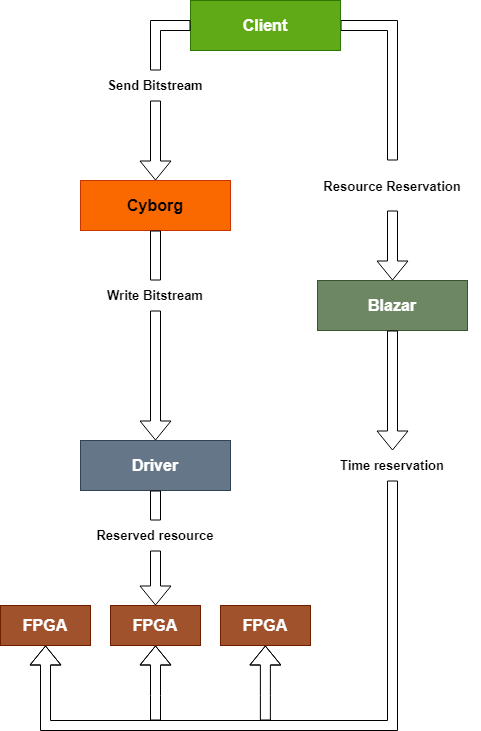
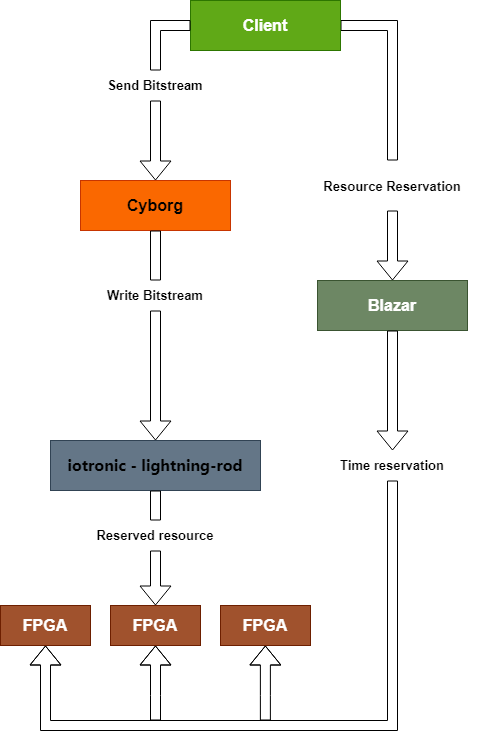
Versione 19:29 11/07/22

Changed region(s): [[0.0936, 0.6019, 0.5613, 0.6922]]

diff --git a/Background.tex b/Background.tex
@@ -97,12 +97,33 @@ Una volta terminati questi passaggi avremo a disposizione l'implementazione del 
 Questo tipo di sviluppo è il migliore nel nostro caso poichè non stiamo effettuando un High Level Synthesis (HLS), in quel caso esistono dei tools appositi.
 \subsection{Sviluppo tramite Vivado}
 Lo sviluppo tramite vivado è al quanto semplificato, poichè godendo di un interfaccia grafica permette l'implementazione di sistemi complessi anche non avendo alcuna conoscenza di VHDL o Verilog, si rimanda però all'appendice \ref{app:a} per maggiori chiarimenti su installazione ed inizio del primo progetto.
-\section{Vitis}
+\section{Tecnologie implementative}
+\subsection{Vitis}
 Vitis è il Software Development Kit (SDK) fornito da Xilnix nella sua suite di prodotti, la sua installazione è contestuale a quella trattata in \ref{app:a}, tramite esso è possibile generare codice che in grado di esser eseguito sulla scheda, questo è possibile tramite le informazioni prese su vivado.\\
 Sono presenti due possibilità di programmazione, standalone e linux, la prima applicazione permetterà l'esecuzione di codice C in modalità Bare-Metal\footnote{Livello di programmazione senza astrazioni, come il sistema operativo}, in questo modo potremmo usare delle librerie della Xilinix che contengono delle funzioni standard al fine di effettuare la comunicazione tra PS e PL. Successivamente tratteremo anche la comunicazione tra PS e PL su sistema linux. Questo tipo di programmazione è discussa approfonditamente \ref{Standalone}
-\section{Petalinux}
+\subsection{Petalinux}
 È un tool della Xilinix che necessario qualora si volesse usare una distro Linux embedded su di una FPGA SoC xilinix, la sua installazione è trattata in \ref{petalinuxinst}. Petalinux offre una grossa flessibilità per la costruzione e compilazione di un kernel Linux, la sua flessibilità ci permette di escludere o includere moduli pre-esistenti oppure crearne uno noi secondo le nostre esigenze. Si basa fortemente sull'architettura e sull'esportazione che avviene da vivado al fine di costruire il device tree e tutti gli strumenti necessari al kernel.\\
 Al fine di usufruire di petalinux vanno impostati i Jumpers della scheda MIO2-6 in configurazione  "00110", in questo modo potremmo usare il kernel che abbiamo creato e compilato\footnote{Che vedremo successivamente}, tramite la scheda SD che dovrà rispettare delle specifiche espresse in \ref{sd}.
-\section{Bootgen}
-Bootgen è un tool appartenente alla suite di sviluppo della Xilinix, il suo scopo è quello di generare i file binari e tutti gli artefatti necessari. La sua installazione verrà discussa in \ref{installazioneBoot}
-Sfortunatamente questo tool è attualemente disponibile solo per architettura x86, quindi come tutti i tool presentati precedentemente non sarà possibile installarli sulla piattaforma da noi prescelta.\\
+\subsection{Bootgen}
+\textit{Bootgen} è un tool appartenente alla suite di sviluppo della Xilinix, il suo scopo è quello di generare i file binari e tutti gli artefatti necessari. La sua installazione verrà discussa in \ref{installazioneBoot}
+Sfortunatamente questo tool è attualemente disponibile solo per architettura x86, quindi come tutti i tool presentati precedentemente non sarà possibile installarli sulla piattaforma da noi prescelta.\clearpage
+\subsection{OpenStack}
+OpenStack è un piattaforma cloud open-source\cite{OpenStack2} che permette la gestione di risorse in cloud, queste risorse possono variare da macchine virtuali, blocchi d'indirizzamento, spazio d'archiviazione ed acceleratori. Tutte le risorse fisiche vengono aggregate in un unico grande pool ed alloca le risorse virtuali permettendo cosi la richiesta tramite le API da parte dell'utente finale, OpenStack non gestisce la virtualizzazione, ma sfrutta le tecnologie di virtualizzazioni preesistenti eseguendo un funzionamento assimilabile a quello di un raccoglitore.
+\begin{figure}[h]
+\centering
+\includegraphics[width=1\textwidth]{images/Openstack.jpg}
+\caption{Diagramma rappresentativo funzionamento OpenStack\cite{OpenStack2}}
+\end{figure}\\
+\subsection{Nova}
+Nova fa parte del progetto open-source OpenStack, il suo scopo è la gestione delle Virtual Machine (VM), esso permette, in simbiosi con Cyborg, di definire gli acceleratori e le FPGA come VM, per maggiori approfondimenti si rimanda a \cite{Nova}.
+\subsection{Cyborg}
+È un sottosistema di OpenStack, il quale si occupa della gestione del ciclo di vita degli acceleratori, il tutto viene effettuato tramite un interfaccia \textit{REpresentational State Transfer} (REST), tale approccio permette l'aggiunta e la rimozione di nodi ed informazioni legate ai dispositivi.\cite{Cyborg}
+\begin{figure}[h]
+\centering
+\includegraphics[width=0.7\textwidth]{images/cyborg-architecture.png}
+\caption{Architettura del funzionamento di Cyborg\cite{Cyborg}}
+\end{figure}\\
+Tramite i driver Cyborg sarà in grado di interfacciarsi con la scheda FPGA ed effettuare le operazioni discusse approfonditamente nel capitolo \ref{chap:Cap1}
+\subsection{Blazar}
+È un servizio fornito da OpenStack al fine di effettuare la \textit{resource reservation}, ossia la prenotazione delle risorsi disponibili nel sistema cloud, le prenotazioni posso esser effettuate per un periodo di tempo specifico, immediatamente o nel futuro, per risorse intendiamo istanze di VM, risorse di storage e risorse puramente computazionali.\cite{Blazar}
+\subsection{Iotronic - Lightning-Rod}

diff --git a/Capitolo4.tex b/Capitolo4.tex
@@ -1,7 +1,7 @@
 \chapter{Gate Array Full Reconfiguration}
 \label{chap:Cap3}
-Come già anticipato nel capitolo \ref{chap:Cap1}, lo scopo dell'architettura è quello di permettere la personalizzazione completa dell'FPGA al singolo utente, quindi ad esempio l'uso di un nuovo accelleratore, ma senza modificare il kernel linux.\\
-Al fine di far ciò è necessario riprogrammare la Programmable Logic tramite l'FPGA Manager.
+Come già anticipato nel capitolo \ref{chap:Cap1}, lo scopo dell'architettura è quello di permettere la personalizzazione completa dell'FPGA al singolo utente, quindi ad esempio l'uso di un nuovo acceleratore, ma senza modificare il kernel linux.\\
+Al fine di far ciò è necessario riprogrammare la Programmable Logic tramite la classe, presente nel modulo del kernel, FPGA Manager, cosi da garantire l'uso della risorsa cloud all'utente in base alle sue necessità.
 \section{FPGA Manager}
 Esso bisogna che sia abilitato nella struttura del kernel, poichè è un insieme di API agnostiche che la loro chiamata ci permette di programmare, o riprogrammare, l'FPGA tramite un file binario.
 \subsection{Creazione del file binario}

diff --git a/Capitolo3.tex b/Capitolo3.tex
@@ -1,6 +1,7 @@
 \chapter{Interfaccia Soft Core - Gate Array}
 \label{comunicazioneCap}
-Nell'ambiente delle FPGA SoC sono importantissime l'alta performace e la bassa latenza, l'architettura ZYNQ dimostra come i Processor Local Bus (PLB) rendono fattibile la comunicazione tra architettura ARM\footnote{Processing System} ed FPGA\footnote{Programmable Logic}\cite{8358511}.\\
+Nell'ambiente delle FPGA SoC sono importantissime l'alta performace e la bassa latenza, poichè la comunicazione tra le due componenti della board è fondamentale per il corretto funzionamento della scheda alle sue massime funzionalità.\\
+Tuttavia non è univoco il metodo di interfacciamento tra le due aree ed in questo capitolo tratteremo il più comune e diffuso tra quelli disponibili in tutte le FPGA SoC.
 \section{Interfacce di comunicazione}
 Le ZYNQ-7000 usano diversi metodi di comunicazione tra PS e PL, tutte basate su tecniche di interconnessione, le interfacce possono essere suddivise in due categorie\cite{Doc}:
 \begin{itemize}
